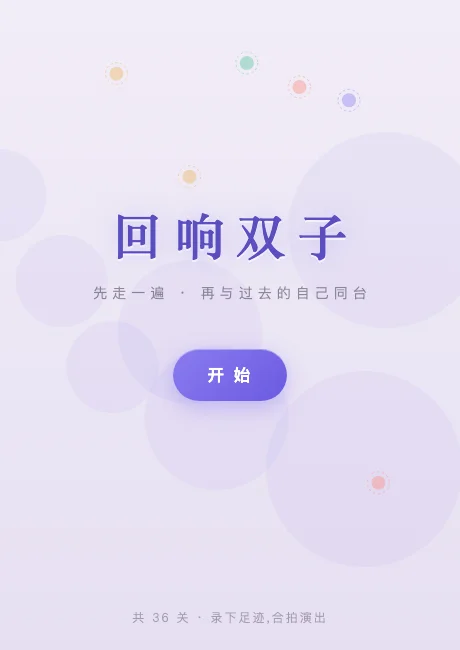
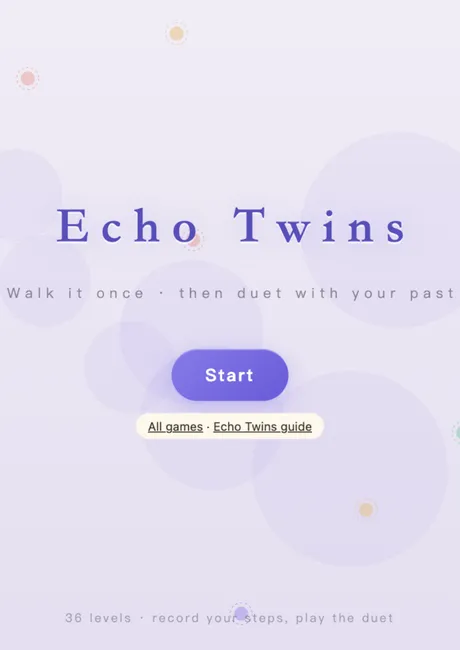
English title-screen previews for Firefly Pond, Lantern, Echo Twins; shorten Echo tagline

diff --git a/play/echo/index.html b/play/echo/index.html
@@ -160,7 +160,7 @@ button{font-family:inherit;color:var(--ink);background:none;border:none;cursor:p
 <div id="ui">
   <div id="scr-title" class="scr show">
     <div class="logo">Echo Twins</div>
-    <div class="sub">Walk it once · then duet with your past self</div>
+    <div class="sub">Walk it once · then duet with your past</div>
     <div style="height:46px"></div>
     <button class="btn" id="bt-start">Start</button>
     <nav aria-label="Game navigation" style="font:12px system-ui;background:#FFF8EC;color:#3A3226;border-radius:20px;padding:6px 12px;margin:12px 0;white-space:nowrap"><a style="color:inherit" href="/games/">All games</a> · <a style="color:inherit" href="/games/#echo">Echo Twins guide</a></nav><div class="foot">36 levels · record your steps, play the duet</div>
